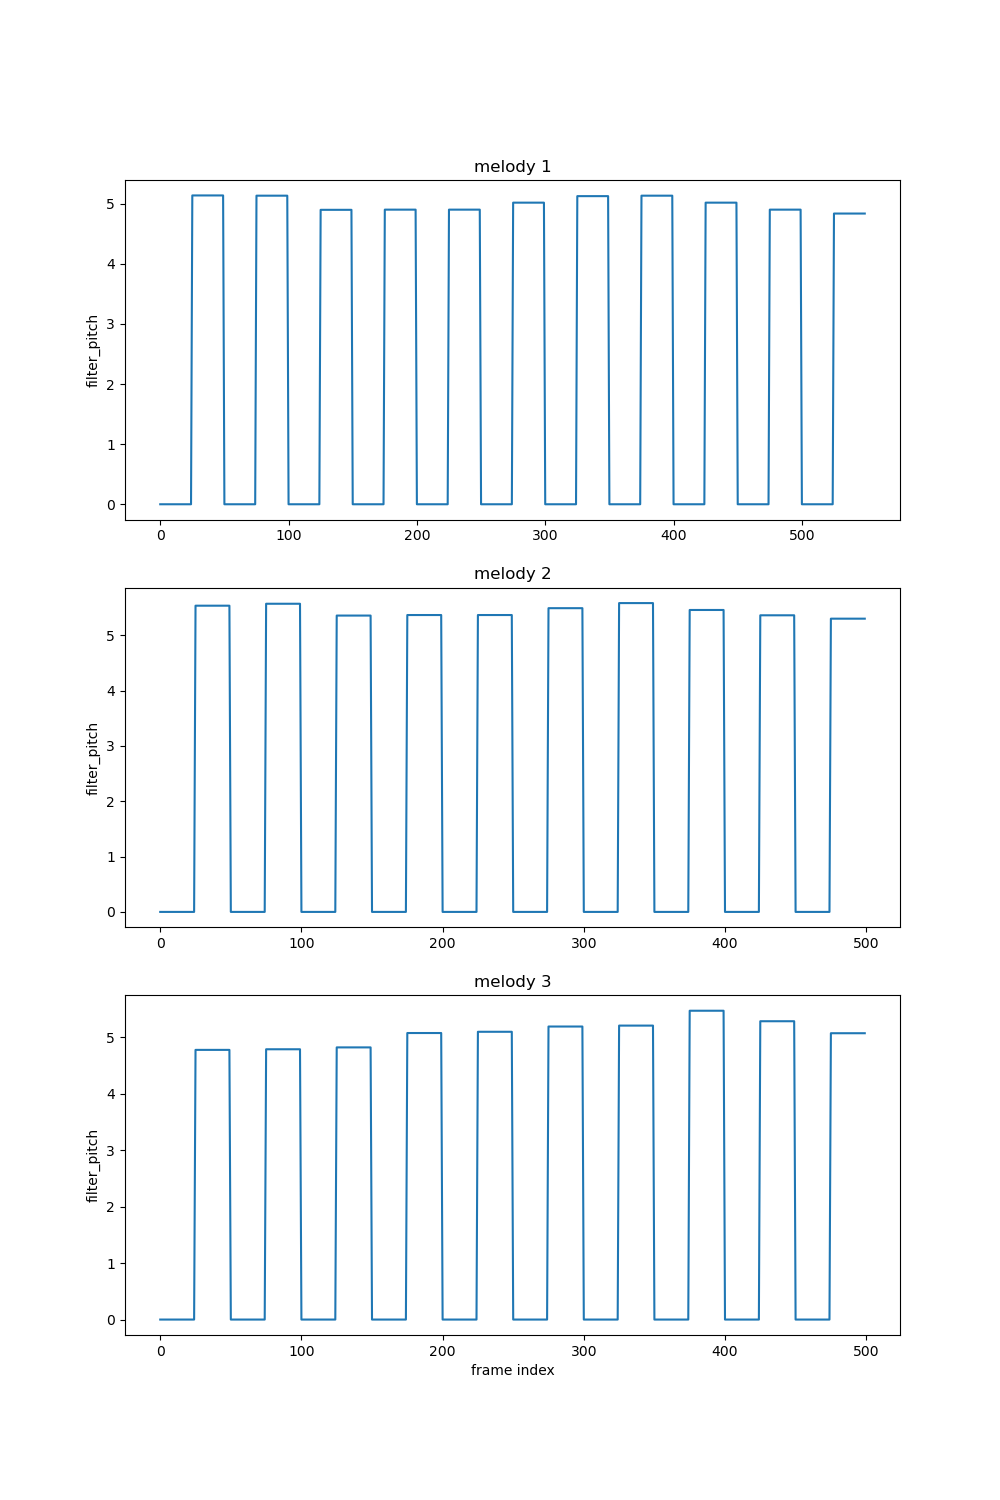
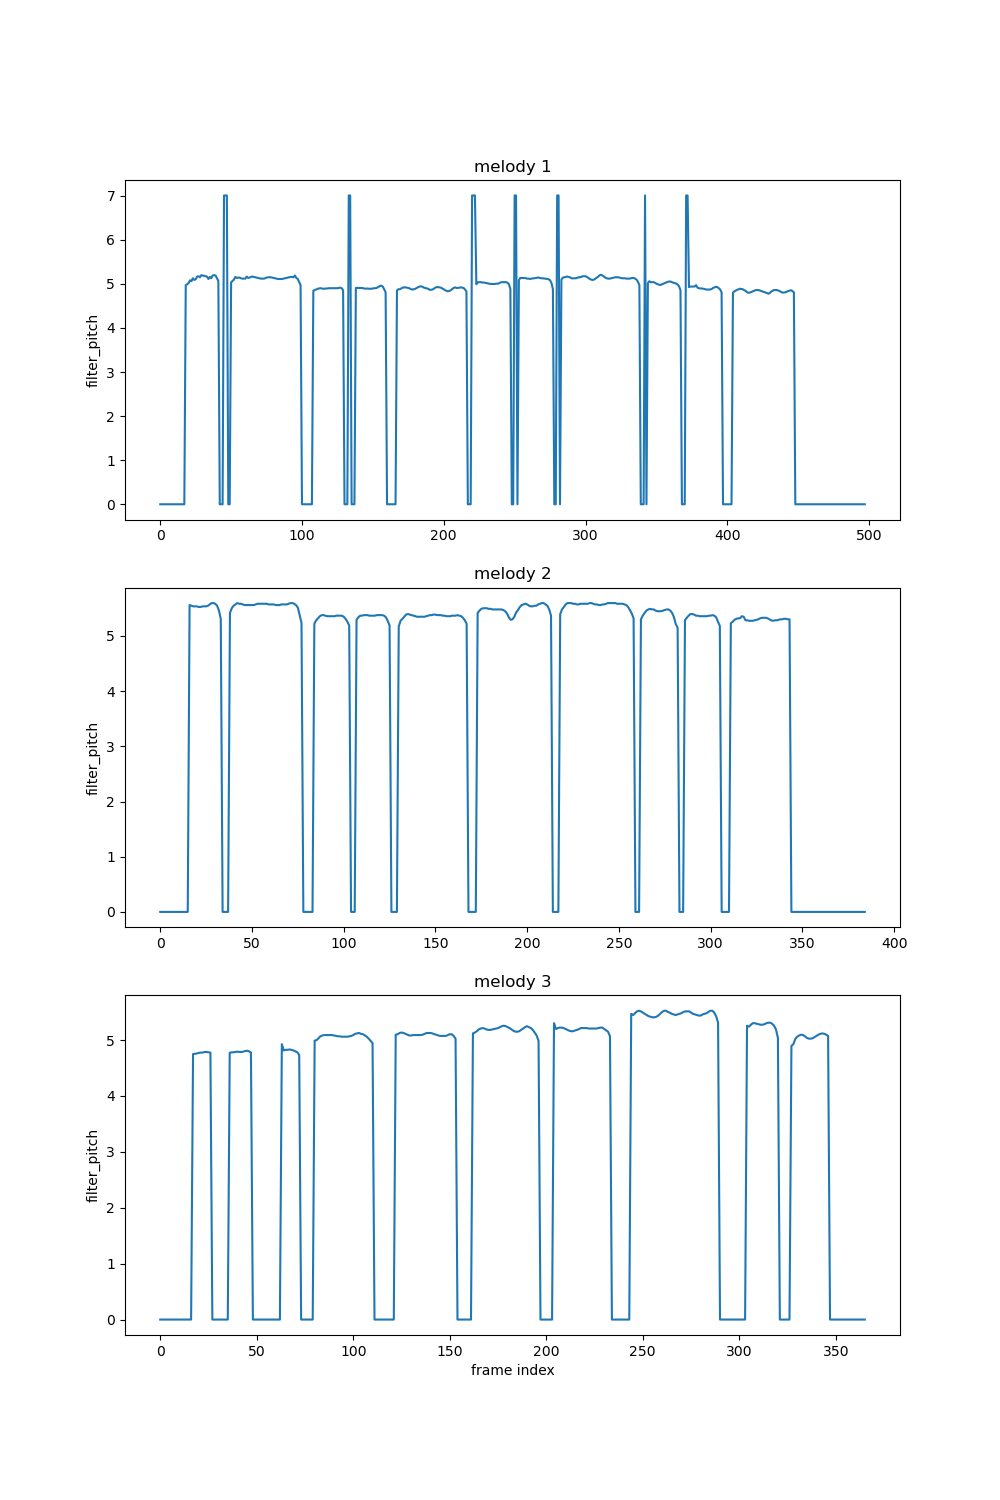
.

diff --git a/assignment2/Feature_Extractor.py b/assignment2/Feature_Extractor.py
@@ -5,7 +5,7 @@ import math
 import statistics
 
 
-def median_nonzero(input_list, len=25):
+def median_nonzero(input_list):
     # hyperparameter len(assigned duration of each note and silence)
     sublists = []
     sublist = []
@@ -14,16 +14,16 @@ def median_nonzero(input_list, len=25):
         if num != 0:
             sublist.append(num)
         elif sublist:
-            templist = [statistics.median(sublist)] * len
-            sublists.append([0] * len)
+            templist = [statistics.median(sublist)] * len(sublist)
+            # sublists.append([0] * len)
             sublists.append(templist)
             sublist = []
 
     if sublist:
-        templist_last = [statistics.median(sublist)] * len
-        sublists.append([0] * len)
+        templist_last = [statistics.median(sublist)] * len(sublist)
+        # sublists.append([0] * len)
         sublists.append(templist_last)
-        sublists.append([0] * len)
+        # sublists.append([0] * len)
 
     sublists = [elem for row in sublists for elem in row]
     # filter out the silence, and use the median value of non-zeros, make it a new list
@@ -58,16 +58,17 @@ def filter_pitch(frIsequence):
     pitch_log, intensity_nor = normalized_intensity(frIsequence)
 
     # filter out unvoiced frame based on intensity and correlation
-    threshold_cor = 0.9
+    threshold_cor = 0.8
     threshold_intensity_nor = np.mean(intensity_nor)
+    thresholdPitch = np.mean(pitch) + np.std(pitch)
     for i in range(0, frame_num):
-        if pitch_log[i] < 3.46 or pitch_log[i] > 6.9 or intensity_nor[i] < threshold_intensity_nor or correlation[i] < threshold_cor:
+        if pitch_log[i] > thresholdPitch or intensity_nor[i] < threshold_intensity_nor or correlation[i] < threshold_cor:
             pitch_log[i] = 0 # define as unvoiced
             pitch[i] = 0
     # subdivide the note based on non-zero value
 
-    pitch = median_nonzero(pitch)
-    pitch_log = median_nonzero(pitch_log)
+    # pitch = median_nonzero(pitch)
+    # pitch_log = median_nonzero(pitch_log)
     return pitch, pitch_log
 
 
